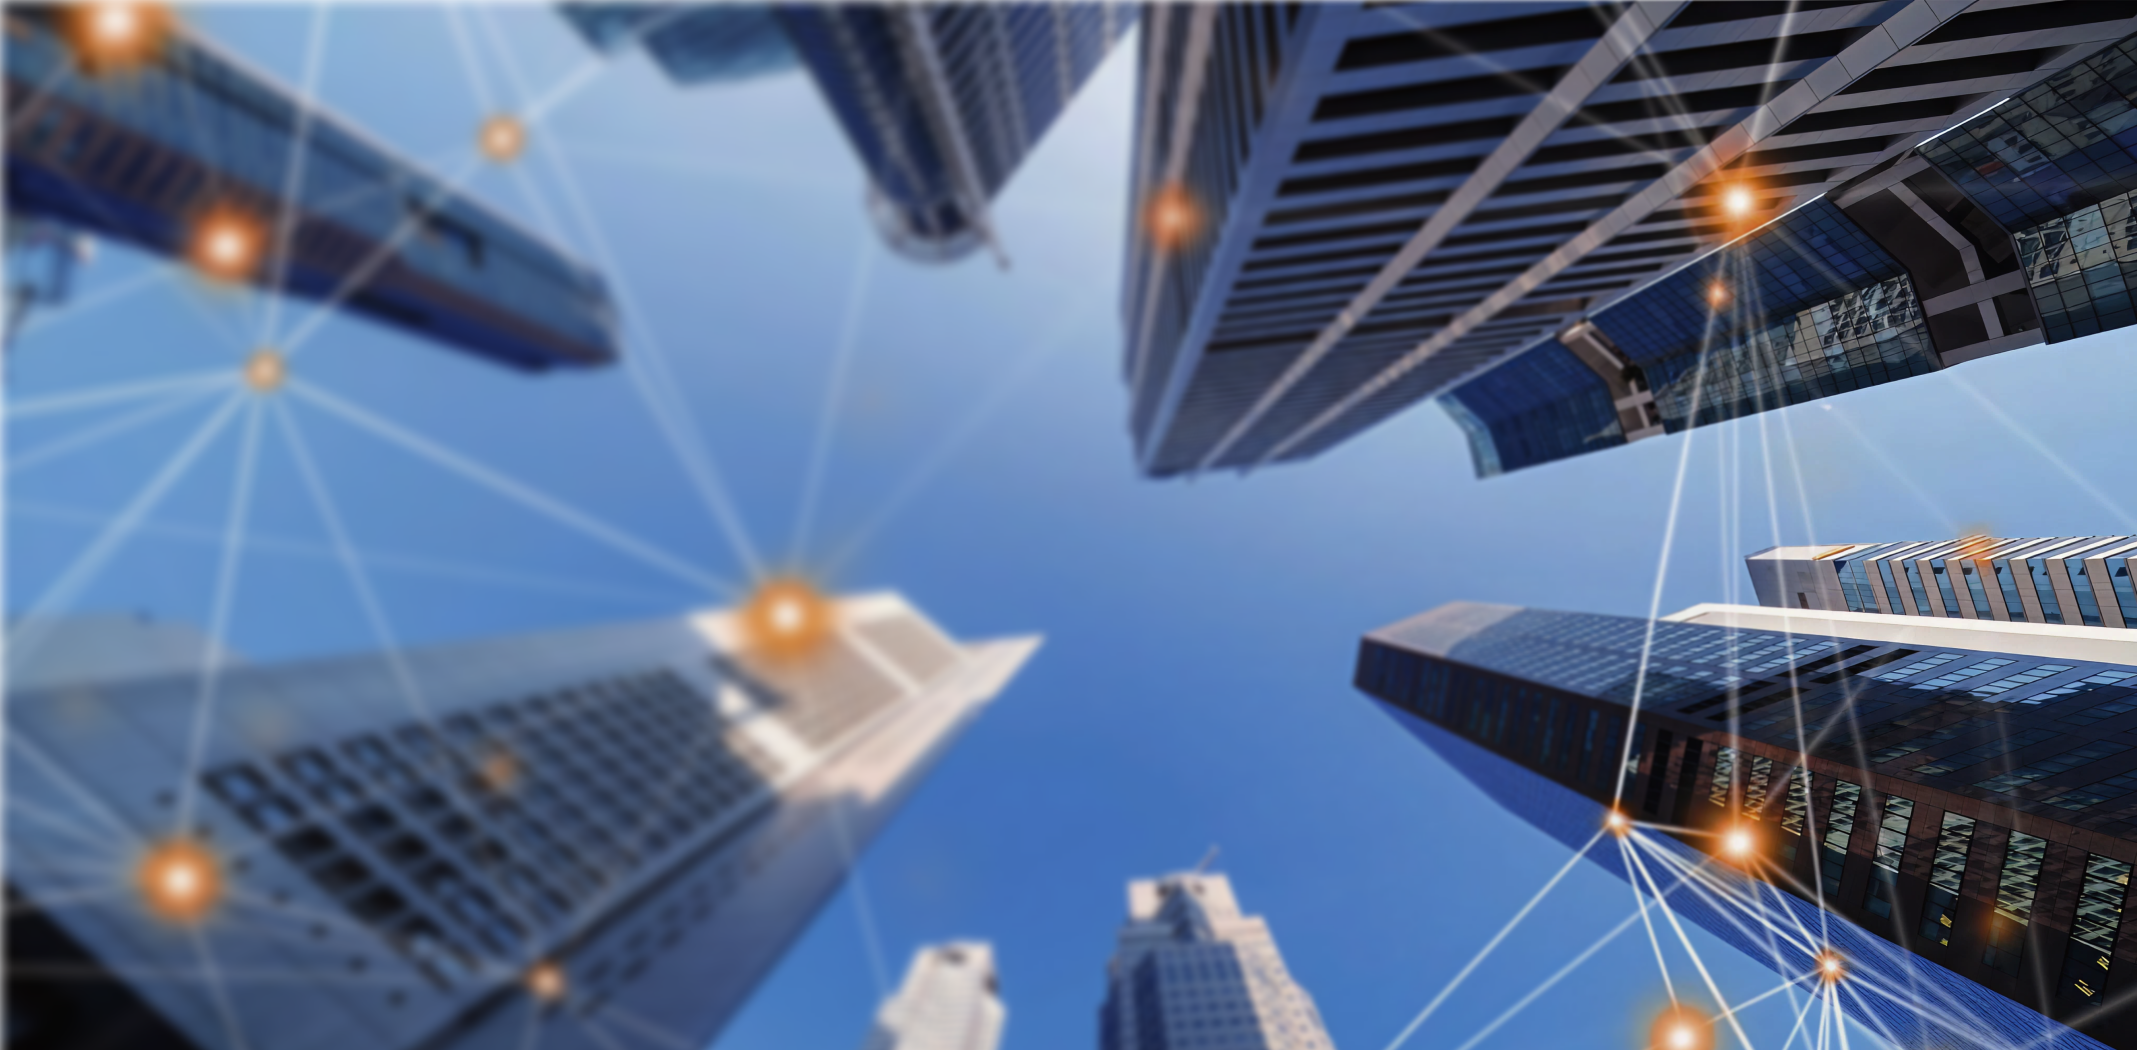
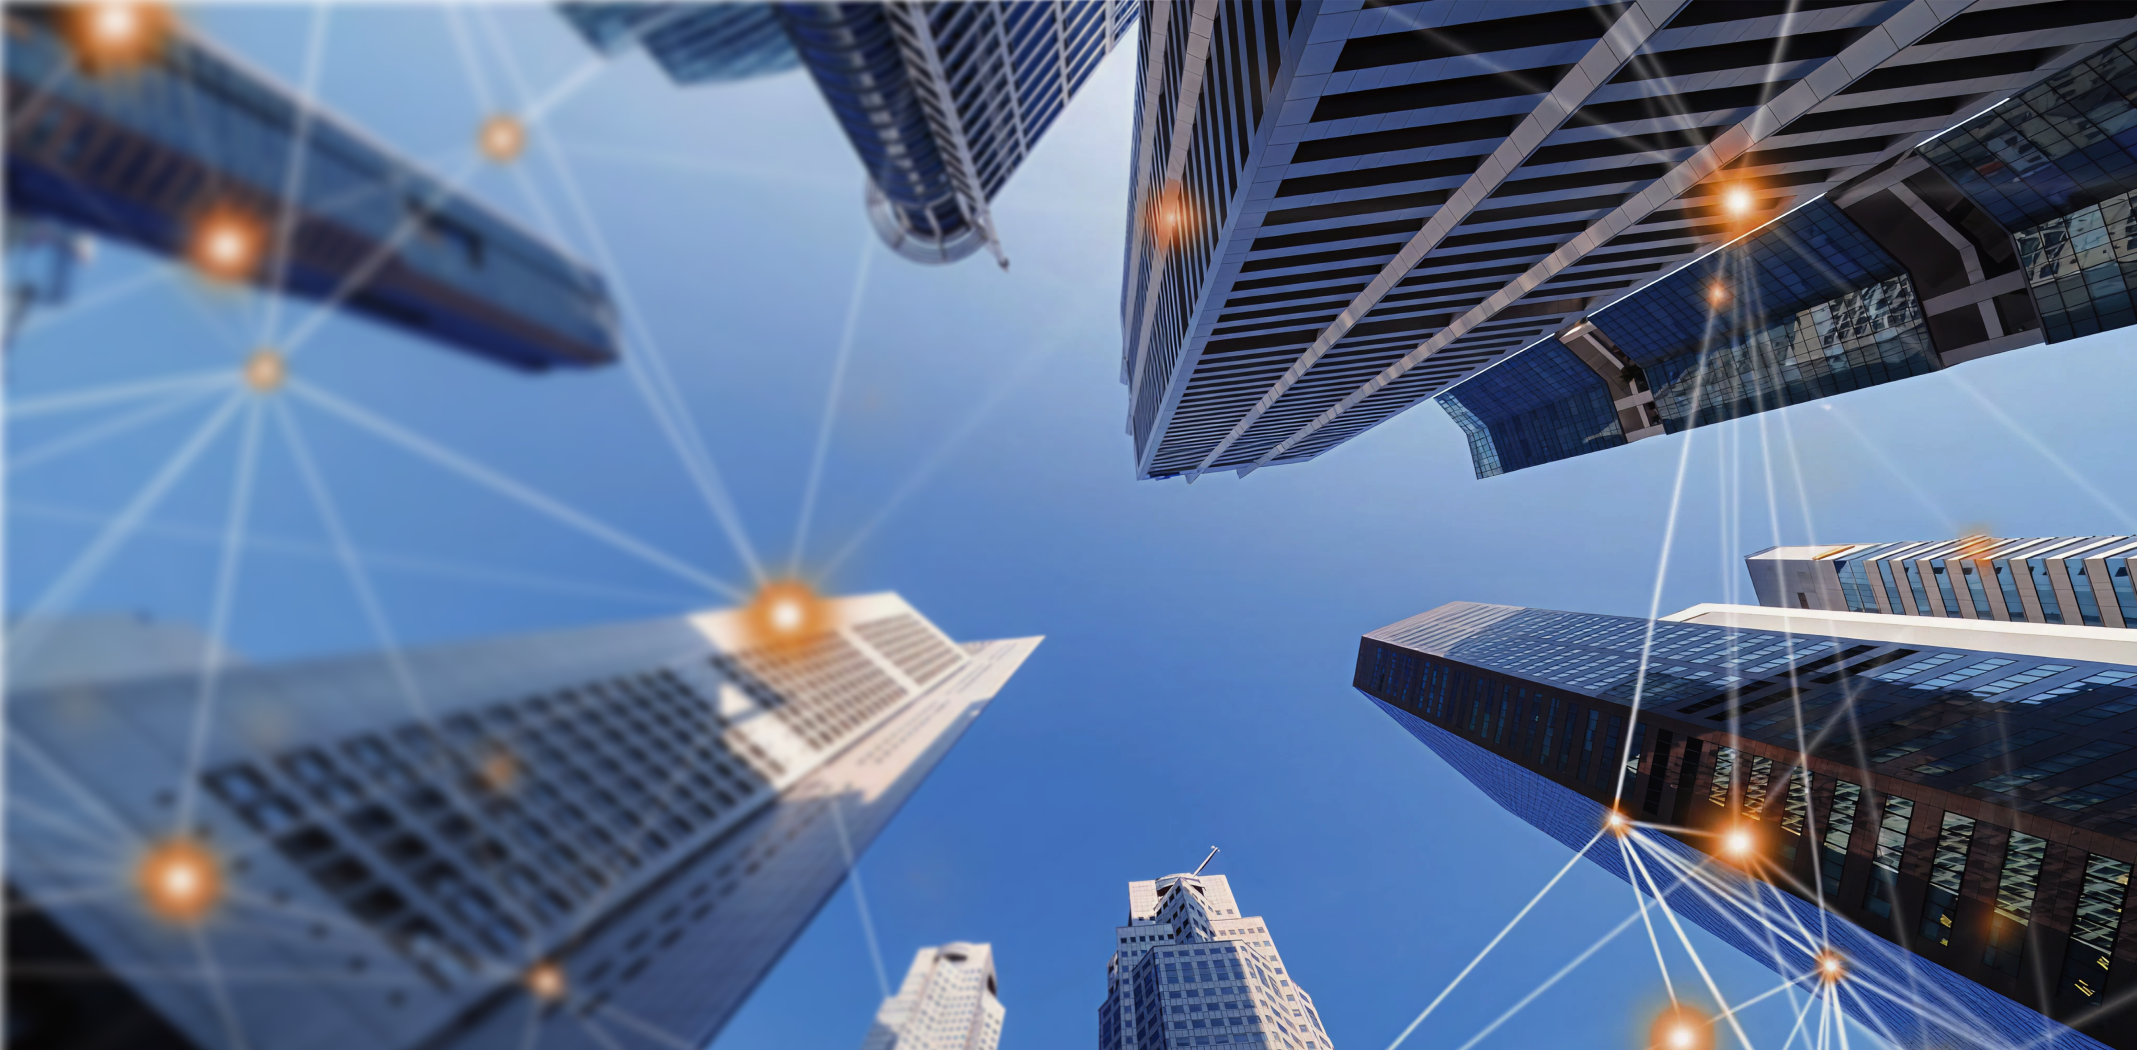
S3 numbers: new map bg with multiply blend, full width, wider numbers grid

diff --git a/css/sections.css b/css/sections.css
@@ -288,17 +288,20 @@
 .s3-numbers {
   position: relative;
   width: 100%;
-  padding: 160px 56px 220px;
+  padding: 160px 56px 340px;
   background: transparent;
 }
 .s3-numbers::before {
   content: '';
   position: absolute;
   inset: 0;
-  background: url('../assets/images/misc/behind-numbers.png') center calc(50% + 150px) / contain no-repeat;
-  opacity: 0.85;
+  background: url('../assets/images/misc/behind-numbers.png') center calc(50% + 180px) / 100% auto no-repeat;
+  opacity: 0.72;
+  mix-blend-mode: multiply;
   pointer-events: none;
   z-index: 0;
+  -webkit-mask-image: linear-gradient(to bottom, rgba(0,0,0,0) 0%, rgba(0,0,0,1) 20%, rgba(0,0,0,1) 80%, rgba(0,0,0,0) 100%);
+          mask-image: linear-gradient(to bottom, rgba(0,0,0,0) 0%, rgba(0,0,0,1) 20%, rgba(0,0,0,1) 80%, rgba(0,0,0,0) 100%);
 }
 
 .s3-header {
@@ -334,7 +337,7 @@
   z-index: 1;
   display: grid;
   grid-template-columns: repeat(3, 1fr);
-  max-width: 1100px;
+  max-width: 1430px;
   margin: 0 auto;
 }
 .s3-cell {
